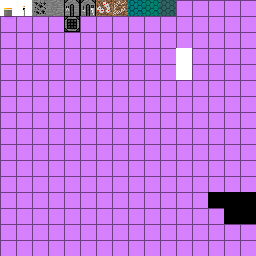
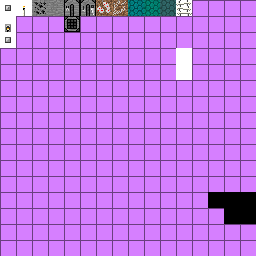
Ladders, lanterns, and bowls

Changed region(s): [[0.0, 0.0, 0.0625, 0.1875], [0.6875, 0.0, 0.75, 0.0625]]

diff --git a/subterrain/common/items/ModItems.java b/subterrain/common/items/ModItems.java
@@ -2,6 +2,7 @@ package lolinder.subterrain.common.items;
 
 import lolinder.subterrain.common.blocks.ModBlocks;
 import net.minecraft.src.Block;
+import net.minecraft.src.CreativeTabs;
 import net.minecraft.src.EnumToolMaterial;
 import net.minecraft.src.Item;
 import net.minecraft.src.ItemStack;
@@ -60,6 +61,7 @@ public class ModItems {
 	
 	// Add misc items
 	public static Item bucketBitumen;
+	public static Item stoneBowl;
 
 	// Prevent instantiation
 	private ModItems() {}
@@ -67,8 +69,8 @@ public class ModItems {
 	public static void init() {
 		
 		// Initialize material items
-		chunkBitumen = new ItemSubterrainMat(3327).setIconIndex(22).setItemName("subChunkBitumen");
-		bitumenInBucket = new ItemSubterrainMat(3328).setIconIndex(23).setItemName("subBitumenInBucket").setContainerItem(Item.bucketEmpty).setMaxStackSize(1);
+		chunkBitumen = new ItemSubterrain(3327).setCreativeTab(CreativeTabs.tabMaterials).setIconIndex(22).setItemName("subChunkBitumen");
+		bitumenInBucket = new ItemSubterrain(3328).setCreativeTab(CreativeTabs.tabMaterials).setIconIndex(23).setItemName("subBitumenInBucket").setContainerItem(Item.bucketEmpty).setMaxStackSize(1);
 		
 		// Initialize pickaxes
 		flintTool = new ItemFlintTool(3330, toolFLINT).setIconIndex(0).setItemName("subFlintTool");
@@ -96,8 +98,6 @@ public class ModItems {
 		diamondBoneShovel = new ItemBoneShovel(3346, EnumToolMaterial.EMERALD).setIconIndex(16).setItemName("subDiamondBoneShovel");
 		
 		// Initialize swords
-		
-		// Initialize shovels
 		stoneBoneSword = new ItemBoneSword(3347, EnumToolMaterial.STONE).setIconIndex(17).setItemName("subStoneBoneSword");
 		ironBoneSword = new ItemBoneSword(3348, EnumToolMaterial.IRON).setIconIndex(18).setItemName("subIronBoneSword");
 		goldBoneSword = new ItemBoneSword(3349, EnumToolMaterial.GOLD).setIconIndex(19).setItemName("subGoldBoneSword");
@@ -105,6 +105,7 @@ public class ModItems {
 		
 		// Initialize misc items
 		bucketBitumen = new ItemBucketBitumen(3329).setIconIndex(21).setItemName("subBucketBitumen");
+		stoneBowl = new ItemSubterrain(3351).setIconIndex(24).setItemName("subStoneBowl");
 
 		initRecipes();
 		
@@ -112,6 +113,7 @@ public class ModItems {
 		LanguageRegistry.addName(bitumenInBucket, "Bitumen in a Bucket");
 		LanguageRegistry.addName(chunkBitumen, "Chunk of Bitumen");
 		LanguageRegistry.addName(bucketBitumen, "Bucket of Bitumen");
+		LanguageRegistry.addName(bucketBitumen, "Stone Bowl");
 		
 		LanguageRegistry.addName(flintTool, "Flint Tool");
 		LanguageRegistry.addName(stoneBonePick, "Stone Pickaxe");

diff --git a/subterrain/common/blocks/BlockLantern.java b/subterrain/common/blocks/BlockLantern.java
@@ -6,6 +6,9 @@ import static net.minecraftforge.common.ForgeDirection.NORTH;
 import static net.minecraftforge.common.ForgeDirection.SOUTH;
 import static net.minecraftforge.common.ForgeDirection.UP;
 import static net.minecraftforge.common.ForgeDirection.WEST;
+
+import java.util.Random;
+
 import lolinder.subterrain.common.CommonProxy;
 import net.minecraft.src.AxisAlignedBB;
 import net.minecraft.src.Block;
@@ -37,18 +40,22 @@ public class BlockLantern extends Block {
 		this.setRequiresSelfNotify();
 	}
 
+	@Override
 	public void setBlockBoundsForItemRender()
 	{
-		float smallerBy = 0.5F;
-		float fromSide = smallerBy / 2.0F;
-		this.setBlockBounds(0.5F - fromSide, 0.0F, 0.5F - fromSide, 0.5F + fromSide, smallerBy, 0.5F + fromSide);
+		float width = 0.375F;
+		float radius = width/2;
+		float height = 0.5F;
+		this.setBlockBounds(0.5F - radius, 0.0F, 0.5F - radius, 0.5F + radius, height, 0.5F + radius);
 	}
 
+	@Override
 	public boolean canPlaceBlockAt(World world, int xPos, int yPos, int zPos)
 	{
 		return super.canPlaceBlockAt(world, xPos, yPos, zPos) && world.doesBlockHaveSolidTopSurface(xPos, yPos - 1, zPos);
 	}
 
+	@Override
 	public void onNeighborBlockChange(World world, int xPos, int yPos, int zPos, int blockId)
 	{
 		if (!world.doesBlockHaveSolidTopSurface(xPos, yPos - 1, zPos))
@@ -56,6 +63,22 @@ public class BlockLantern extends Block {
 			this.dropBlockAsItem(world, xPos, yPos, zPos, world.getBlockMetadata(xPos, yPos, zPos), 0);
 			world.setBlockWithNotify(xPos, yPos, zPos, 0);
 		}
+	}
+
+	@Override
+	public void randomDisplayTick(World par1World, int parX, int parY, int parZ, Random par5Random)
+	{
+        double posX = (double)((float)parX + 0.5F);
+        double posY = (double)((float)parY + 0.2F);
+        double posZ = (double)((float)parZ + 0.5F);
+		par1World.spawnParticle("smoke", posX, posY, posZ, 0.0D, 0.0D, 0.0D);
+		par1World.spawnParticle("flame", posX, posY, posZ, 0.0D, 0.0D, 0.0D);
+	}
+
+	@Override
+	public int getBlockTextureFromSideAndMetadata(int side, int metaData)
+	{
+		return side == 1 ? this.blockIndexInTexture : (side == 0 ? this.blockIndexInTexture + 32 : this.blockIndexInTexture + 16);
 	}
 
 	@Override

diff --git a/subterrain/common/blocks/ModBlocks.java b/subterrain/common/blocks/ModBlocks.java
@@ -29,6 +29,7 @@ public class ModBlocks {
 	public static Block blockLightstone;
 	public static Block blockDimstone;
 	public static Block blockDarkstone;
+	public static Block boneLadder;
 	
 	// Prevent instantiation
 	private ModBlocks() {}
@@ -45,7 +46,8 @@ public class ModBlocks {
 		blockLightstone = new BlockMod(440, 8, Material.rock).setBlockName("subBlockLightstone").setLightValue(1.0F).setHardness(3.0F).setResistance(5.0F).setStepSound(Block.soundStoneFootstep).setCreativeTab(CreativeTabs.tabBlock);
 		blockDimstone = new BlockMod(441, 9, Material.rock).setBlockName("subBlockDimstone").setLightValue(0.5F).setHardness(3.0F).setResistance(5.0F).setStepSound(Block.soundStoneFootstep).setCreativeTab(CreativeTabs.tabBlock);
 		blockDarkstone = new BlockMod(442, 10, Material.rock).setBlockName("subBlockDarkstone").setHardness(3.0F).setResistance(5.0F).setStepSound(Block.soundStoneFootstep).setCreativeTab(CreativeTabs.tabBlock);
-
+		boneLadder = new BlockBoneLadder(443, 11).setBlockName("subBoneLadder");
+		
 		// Register blocks
 		GameRegistry.registerBlock(lantern);
 		GameRegistry.registerBlock(boneTorch);
@@ -56,6 +58,7 @@ public class ModBlocks {
 		GameRegistry.registerBlock(blockLightstone);
 		GameRegistry.registerBlock(blockDimstone);
 		GameRegistry.registerBlock(blockDarkstone);
+		GameRegistry.registerBlock(boneLadder);
 		
 		MinecraftForge.setBlockHarvestLevel(oreBitumen, "pickaxe", 0);
 		
@@ -69,6 +72,7 @@ public class ModBlocks {
 		LanguageRegistry.addName(blockLightstone, "Lightstone");
 		LanguageRegistry.addName(blockDimstone, "Dimstone");
 		LanguageRegistry.addName(blockDarkstone, "Darkstone");
+		LanguageRegistry.addName(boneLadder, "Bone Ladder");
 		
 	}
 	

diff --git a/subterrain/common/blocks/BlockBoneLadder.java b/subterrain/common/blocks/BlockBoneLadder.java
@@ -1,0 +1,31 @@
+package lolinder.subterrain.common.blocks;
+
+import lolinder.subterrain.common.CommonProxy;
+import net.minecraft.src.Block;
+import net.minecraft.src.BlockLadder;
+import net.minecraft.src.CreativeTabs;
+
+/**
+ * BlockBoneTorch
+ * 
+ * A torch crafted by right-clicking a bone shard on a block of liquid bitumen.
+ * 
+ * @author lolinder
+ * @license Lesser GNU Public License v3 (http://www.gnu.org/licenses/lgpl.html)
+ * 
+ */
+public class BlockBoneLadder extends BlockLadder {
+
+	protected BlockBoneLadder(int id, int texture) {
+		super(id, texture);
+		this.setCreativeTab(CreativeTabs.tabDecorations);
+		this.setHardness(0.0F);
+		this.setStepSound(Block.soundWoodFootstep);
+	}
+
+	@Override
+	public String getTextureFile () {
+		return CommonProxy.BLOCK_PNG;
+	}
+
+}

diff --git a/subterrain/common/items/ItemSubterrain.java b/subterrain/common/items/ItemSubterrain.java
@@ -19,13 +19,12 @@ import net.minecraft.src.World;
  * @license Lesser GNU Public License v3 (http://www.gnu.org/licenses/lgpl.html)
  * 
  */
-public class ItemSubterrainMat extends Item {
+public class ItemSubterrain extends Item {
 
-	public ItemSubterrainMat(int id) {
+	public ItemSubterrain(int id) {
 		super(id);
-		setCreativeTab(CreativeTabs.tabMaterials);
+		setCreativeTab(CreativeTabs.tabMisc);
 	}
-	
 
 	@Override
 	public String getTextureFile()
